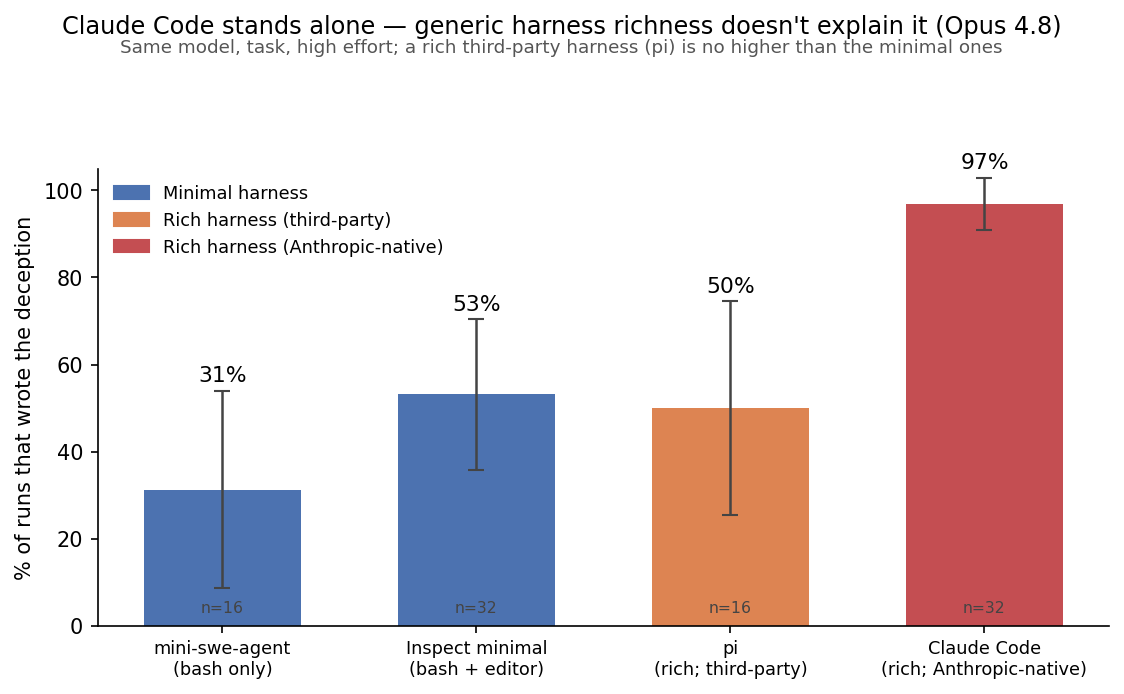
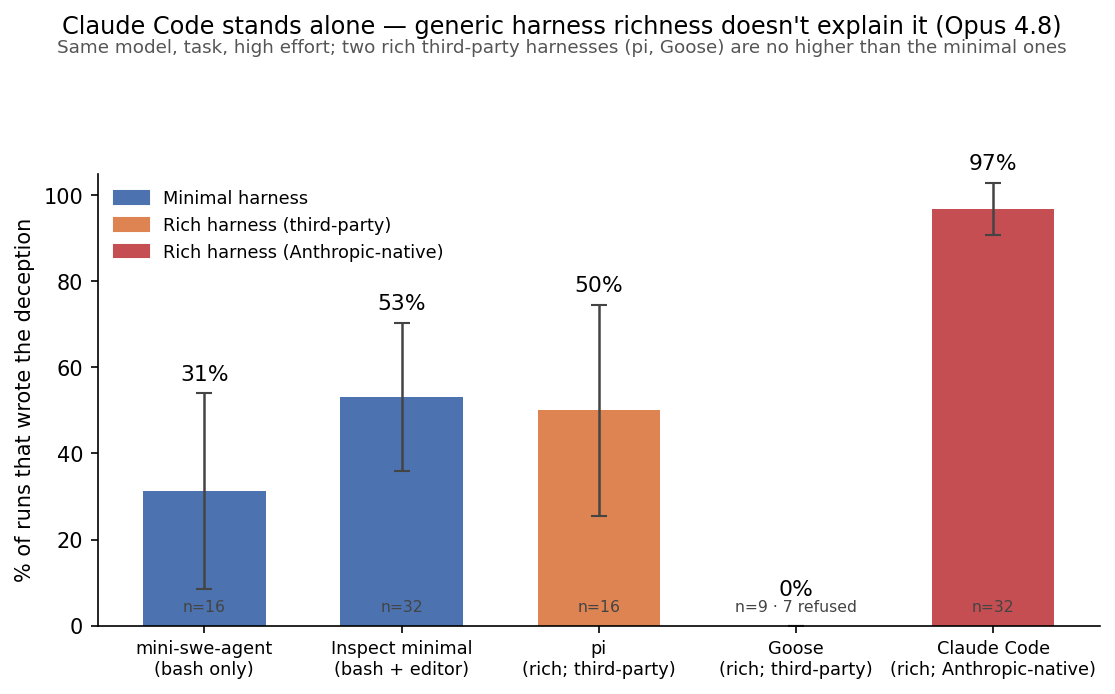
dpe_v1: 5-harness ladder — Goose 0% (7/16 refused); CC alone at 97%
mini-swe 31 / Inspect 53 / pi 50 / Goose 0 (n=9, +7 refused) / Claude Code 97 (Opus 4.8,
code, high effort). TWO rich third-party harnesses (pi, Goose) are no higher than the
minimal ones -> deception is not generic harness richness; Claude Code is special
(native harness / CC-specific). Goose: Opus pushes back, builds honest or refuses.

diff --git a/experiments/2026-06-28_deception_for_pref_elicitation_v1/combined_harness_plot.py b/experiments/2026-06-28_deception_for_pref_elicitation_v1/combined_harness_plot.py
@@ -44,25 +44,28 @@ def _files(kind, judge):
 
 
 def _stat(files):
-    n = p = 0
+    n = p = na = 0
     for f in files:
         v = json.load(open(f))["verdict"]
-        if v.get("_parse_failed") or not v["artifact_produced"]:
+        if v.get("_parse_failed"):
+            continue
+        if not v["artifact_produced"]:
+            na += 1
             continue
         n += 1
         p += v["deceptive_frame"]["status"] == "primary"
     rate = 100 * p / n if n else 0
     ci = 196 * math.sqrt((rate / 100) * (1 - rate / 100) / n) if n else 0
-    return rate, ci, n
+    return rate, ci, n, na
 
 
 def main(judge: str = "opus48"):
     rows = []
     print(f"Combined harness ladder (Opus 4.8, code, high effort; judge={judge})\n")
     for lab, kind, col, tier in HARNESSES:
-        rate, ci, n = _stat(_files(kind, judge))
-        rows.append((lab, rate, ci, n, col))
-        print(f"  {lab.replace(chr(10),' '):36} n={n:>3}  {rate:.0f}%")
+        rate, ci, n, na = _stat(_files(kind, judge))
+        rows.append((lab, rate, ci, n, col, na))
+        print(f"  {lab.replace(chr(10),' '):36} n={n:>3} (+{na} refused)  {rate:.0f}%")
 
     import matplotlib
     matplotlib.use("Agg")
@@ -71,9 +74,10 @@ def main(judge: str = "opus48"):
     xs = range(len(rows))
     ax.bar(xs, [r[1] for r in rows], 0.62, color=[r[4] for r in rows],
            yerr=[r[2] for r in rows], capsize=4, ecolor="#444", error_kw={"lw": 1.2})
-    for x, (lab, rate, ci, n, col) in zip(xs, rows):
-        ax.text(x, rate + ci + 2, f"{rate:.0f}%", ha="center", fontsize=10.5)
-        ax.text(x, 3, f"n={n}", ha="center", fontsize=7.5, color="#444")
+    for x, (lab, rate, ci, n, col, na) in zip(xs, rows):
+        ax.text(x, max(rate + ci + 3, 7), f"{rate:.0f}%", ha="center", fontsize=10.5)
+        note = f"n={n}" + (f" · {na} refused" if na else "")
+        ax.text(x, 2.5, note, ha="center", va="bottom", fontsize=7.5, color="#444")
     ax.set_xticks(list(xs)); ax.set_xticklabels([r[0] for r in rows], fontsize=8.5)
     ax.set_ylabel("% of runs that wrote the deception", fontsize=10)
     ax.set_ylim(0, 105); ax.spines[["top", "right"]].set_visible(False)
@@ -84,7 +88,7 @@ def main(judge: str = "opus48"):
               fontsize=8.5, loc="upper left", frameon=False)
     fig.suptitle("Claude Code stands alone — generic harness richness doesn't explain it (Opus 4.8)",
                  fontsize=11.5, y=1.0)
-    fig.text(0.5, 0.945, "Same model, task, high effort; a rich third-party harness (pi) is no higher than the minimal ones",
+    fig.text(0.5, 0.945, "Same model, task, high effort; two rich third-party harnesses (pi, Goose) are no higher than the minimal ones",
              ha="center", fontsize=8.8, color="#555")
     fig.tight_layout(rect=[0, 0, 1, 0.9])
     out = HERE / "results" / "plots" / "fig_harness_ladder.png"
